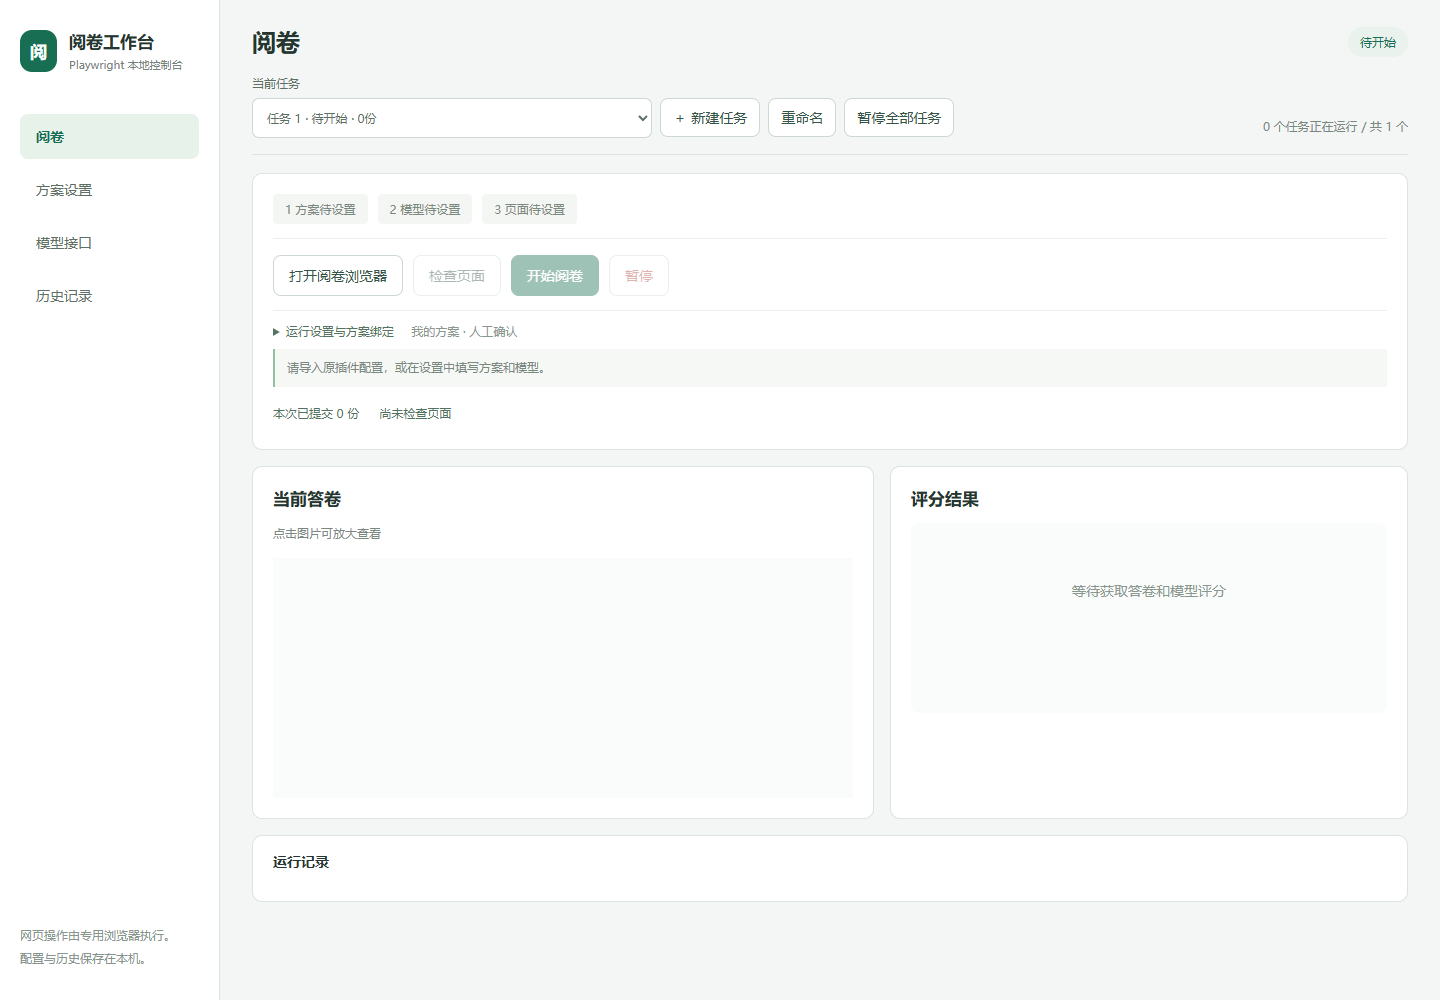
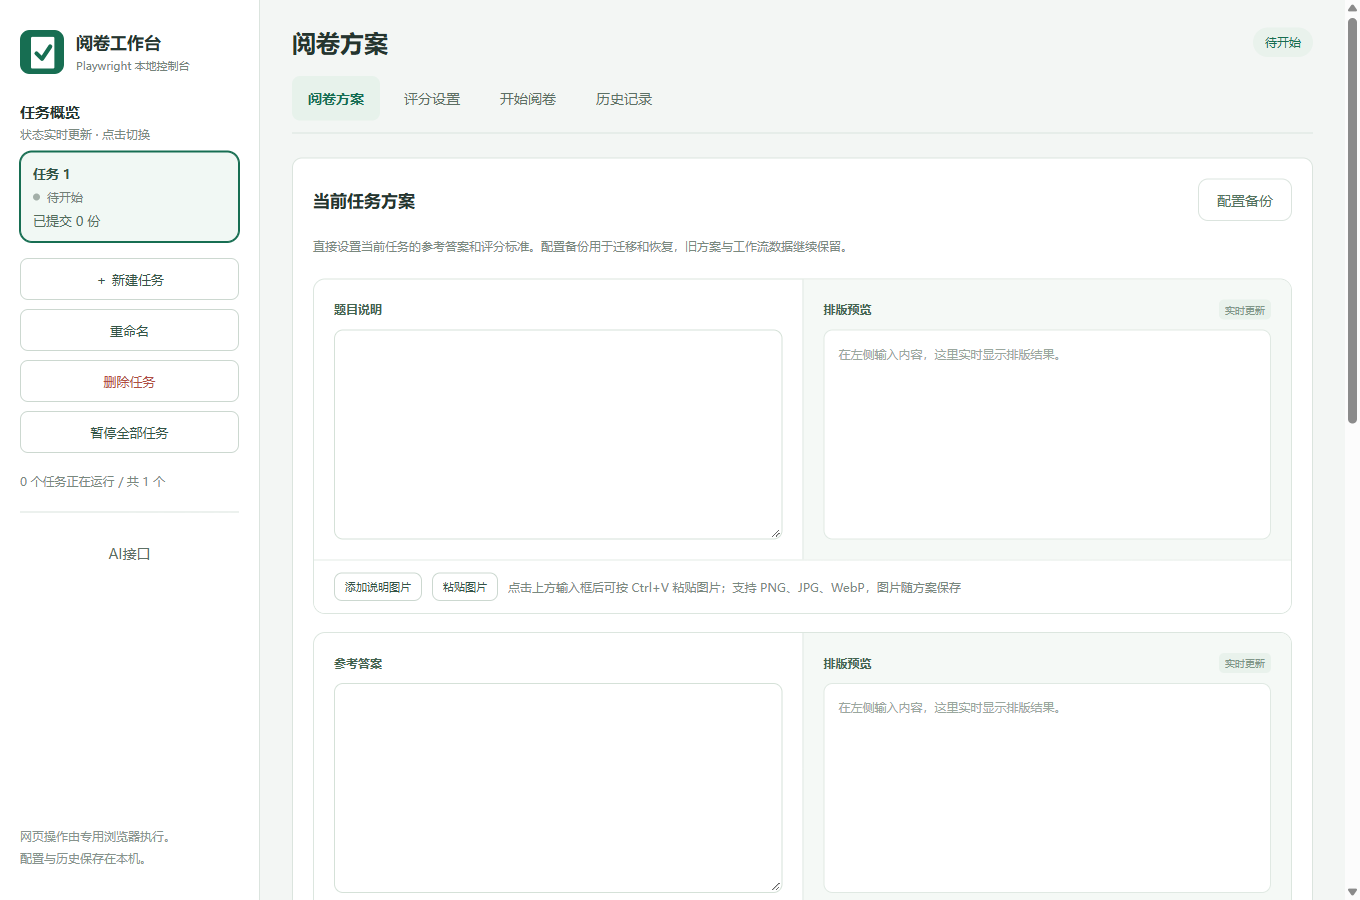
Refresh public project homepage with downloads and verified release status

diff --git a/README.md b/README.md
@@ -1,18 +1,39 @@
-# AI-Marker-Playwright
+# AI-Marker-Playwright · AI阅卷工作台
 
-支持网站适配器的本地可视化阅卷工具：使用 Playwright 执行网页操作，支持方案配置、模型评分、人工确认、历史记录与独立并发任务。
+面向教师的本地可视化AI阅卷软件，已公开发布 Windows 初版。按“阅卷方案 → 评分设置 → 开始阅卷”完成配置，支持模型评分、双评仲裁、人工确认、连续阅卷、历史导出与独立并发任务。
+
+[下载 Windows 版本](https://github.com/shimingzhi0017/AI-Marker-Playwright/releases/latest) · [测试报告](测试报告.md) · [验证与待办](验证与待办.md)
+
+## 下载与使用
+
+| 版本 | 使用方式 |
+| --- | --- |
+| 单文件 EXE | 在发布页下载 EXE，双击启动；约364 MB，首次启动等待解压，内置Node.js、浏览器及依赖 |
+| 便携 ZIP | 下载后全部解压，双击“启动工作台.cmd”；无需另装Node.js，内置浏览器受限时尝试本机Edge |
+| 源码版 | 适合开发及修改，按下方“源码安装环境”准备Node.js并启动 |
+
+EXE未签名，部分Windows应用控制策略可能阻止运行，可使用便携版入口。两种发布版选择一个启动。发布包不含个人API密钥、任务、答卷、历史或登录资料；首次使用需配置自己的AI接口和阅卷方案。发布版个人资料保存在 `%LOCALAPPDATA%\AI-Marker-Playwright\user-data`，关闭后保留。
+
+## 当前功能
+
+- 阅卷方案：文本、图片上传与粘贴，公式排版预览；AI根据九学科、三档宽严、给分方式与本题补充生成评分标准，统一总分、分项和步长。
+- 评分设置：单评仅调用主评；双评主评与复评并行，客观题按标准逐项比对，主观题按总分差阈值处理，需要时独立仲裁。
+- 开始阅卷：网站模板及自定义适配调试、页面检查、人工确认、5秒倒计时、无人值守、可选份数限制及暂停。
+- 任务与历史：独立任务实时状态、共享AI接口、图片与分项详情、仲裁标记、人工改分及JSON／CSV／带图HTML导出。
+
+2026-10-12版本通过 **87项本地自动测试**，GitHub云端回归通过；EXE首次解压及启动自检、工作台窗口加载验证通过。当前可作为公开初版使用；真实评分准确率、跨平台与长期无人值守仍需实测，自动测试不代表这些场景均已验收。
 
 这是 [AI-Marker-Suite](https://github.com/five-plus-one/AI-Marker-Suite) 的独立迁移项目，复用提示词、评分计算及27个网站适配器源代码（已对照上游 v1.21.14.0 核查），遵循 GPL-3.0。智学网已有内置答卷身份、提交回执与阅卷结束处理；其他平台需要独立调试。**新网站或新阅卷流程先用人工确认与只填分，核验提交与换卷后再启用自动提交。** 当前验证范围见[测试报告](测试报告.md)及[验证与待办](验证与待办.md)。
 
 ![阅卷工作台](docs/workbench.png)
 
-## 首次安装环境
+## 源码安装环境
 
 Windows 首次运行请先安装 **Node.js 24 或更新的 LTS 版本（包含 npm）**，将项目全部解压，再双击“启动可视化.cmd”。首次运行需要联网；启动器会检查版本、补齐依赖，并单独验证浏览器。安装后会重新读取路径。
 
 默认使用 Chromium，Windows 上缺失或无法创建进程时尝试已安装的 Microsoft Edge。具体安装步骤和常见报错见 [首次运行说明](首次运行说明.md)。
 
-## 快速启动
+## 源码快速启动
 
 需要 Node.js 24 或更新版本。Windows 可双击“启动可视化.cmd”，也可执行：
 
@@ -30,7 +51,7 @@ npm run ui
 npm test
 ```
 
-测试使用本地模拟网页和模型结果，不需要真实接口密钥，也不向真实平台提交分数。包括连续100份模拟答卷、异常提交、页面变化、可视化改分、任务重命名/删除及双任务并发。查看[功能迁移对照](原版功能对照.md)和[测试说明](测试报告.md)。
+测试使用本地模拟网页和模型结果，不需要真实接口密钥，也不向真实平台提交分数。当前87项覆盖连续100份模拟答卷、异常提交、页面变化、可视化改分、任务重命名/删除、双任务并发、关闭重启和操作等待中的栏目切换。查看[功能迁移对照](原版功能对照.md)和[测试说明](测试报告.md)。
 
 已接入原脚本27个网站适配器，由网址和页面元素自动选择，涵盖智学网、七天、好分数、五岳、华翰云、光大、云阅卷、鑫考、润建等。智学网保留当前答卷与提交回执核验；其他适配器复用原图片获取和分数控件识别，原脚本的题目标识不冒充学生答卷ID。输入式网站可只填分；按钮给分或输入即提交的网站当前显示评分后由用户在网站确认。其他站点自动提交需完成稳定答卷ID及回执字段调试，尚未对全部真实网站验收。已提供分点评语及公式预览；逐字流式展示、AI纠错优化和原插件历史导入仍待迁移。详见[接口迁移核查](接口迁移核查.md)。
 
@@ -178,10 +199,10 @@ npm.cmd run check:browser
 
 当前已有独立设置与历史界面、分点评语和公式预览、AI评分标准草稿、智学网份额完成后继续多阅及全题阅完停止、Windows单文件打包脚本。全题完成后保留由教师选择下一题，重新核对方案后开始。
 
-尚待验证或迁移：真实答卷评分准确率、各网站及同账号并发的长时间运行、收费模型协议联调、其他网站自动提交回执、完整原插件历史导入、图片空间管理、逐字流式显示、AI根据纠错结果自动优化标准、发布包在干净电脑上的完整安装与运行。详见[验证与待办](验证与待办.md)。
+尚待验证或迁移：真实答卷评分准确率、各网站及同账号并发的长时间运行、收费模型协议联调、其他网站自动提交回执、完整原插件历史导入、图片空间管理、逐字流式显示、AI根据纠错结果自动优化标准、发布包在干净电脑上的完整使用流程。当前EXE已完成本机首次解压及组件自检，工作台窗口验证通过。详见[验证与待办](验证与待办.md)。
 
 其他电脑运行“安装依赖.cmd”安装依赖。上游版权和GPL-3.0见THIRD-PARTY-NOTICES.md和LICENSE。
 
 ## Windows 单文件打包
 
-packaging/build.py 可将软件代码、Node.js、Chromium及生产依赖打包成一个自解压EXE；源码和依赖许可证保留。首次启动展开至本机应用目录，个人资料使用独立user-data目录。需要在Windows x64及已备齐依赖和浏览器的开发环境运行。未签名EXE可能被应用控制策略阻止，本机已出现该限制；包内组件验证通过不等同于EXE双击启动验收。
+packaging/build.py 可将软件代码、Node.js、Chromium及生产依赖打包成一个自解压EXE；源码和依赖许可证保留。首次启动展开至本机应用目录，个人资料使用独立user-data目录。构建需要Windows x64及已备齐依赖和浏览器的开发环境。当前发布版通过EXE首次解压和启动自检，并验证工作台窗口加载；未签名EXE仍可能受Windows应用控制策略限制。干净电脑及真实阅卷完整流程另行验收。
